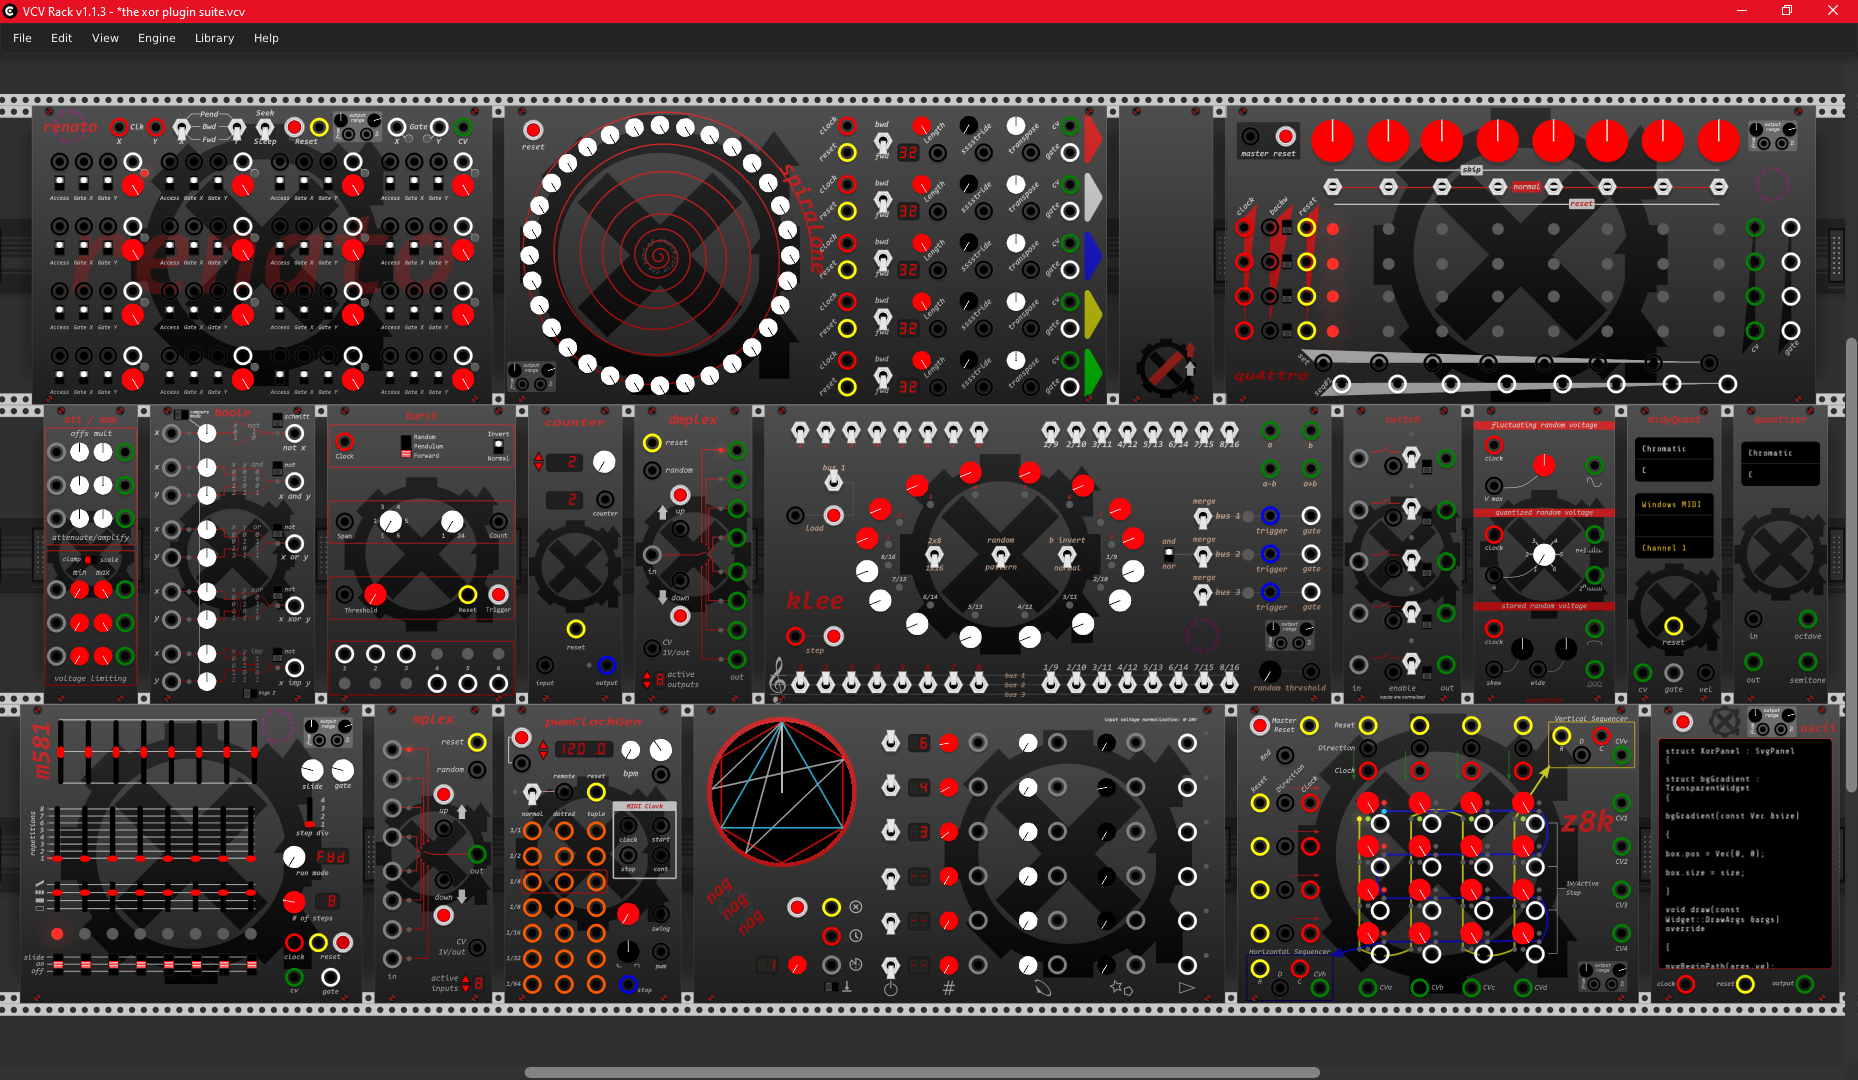
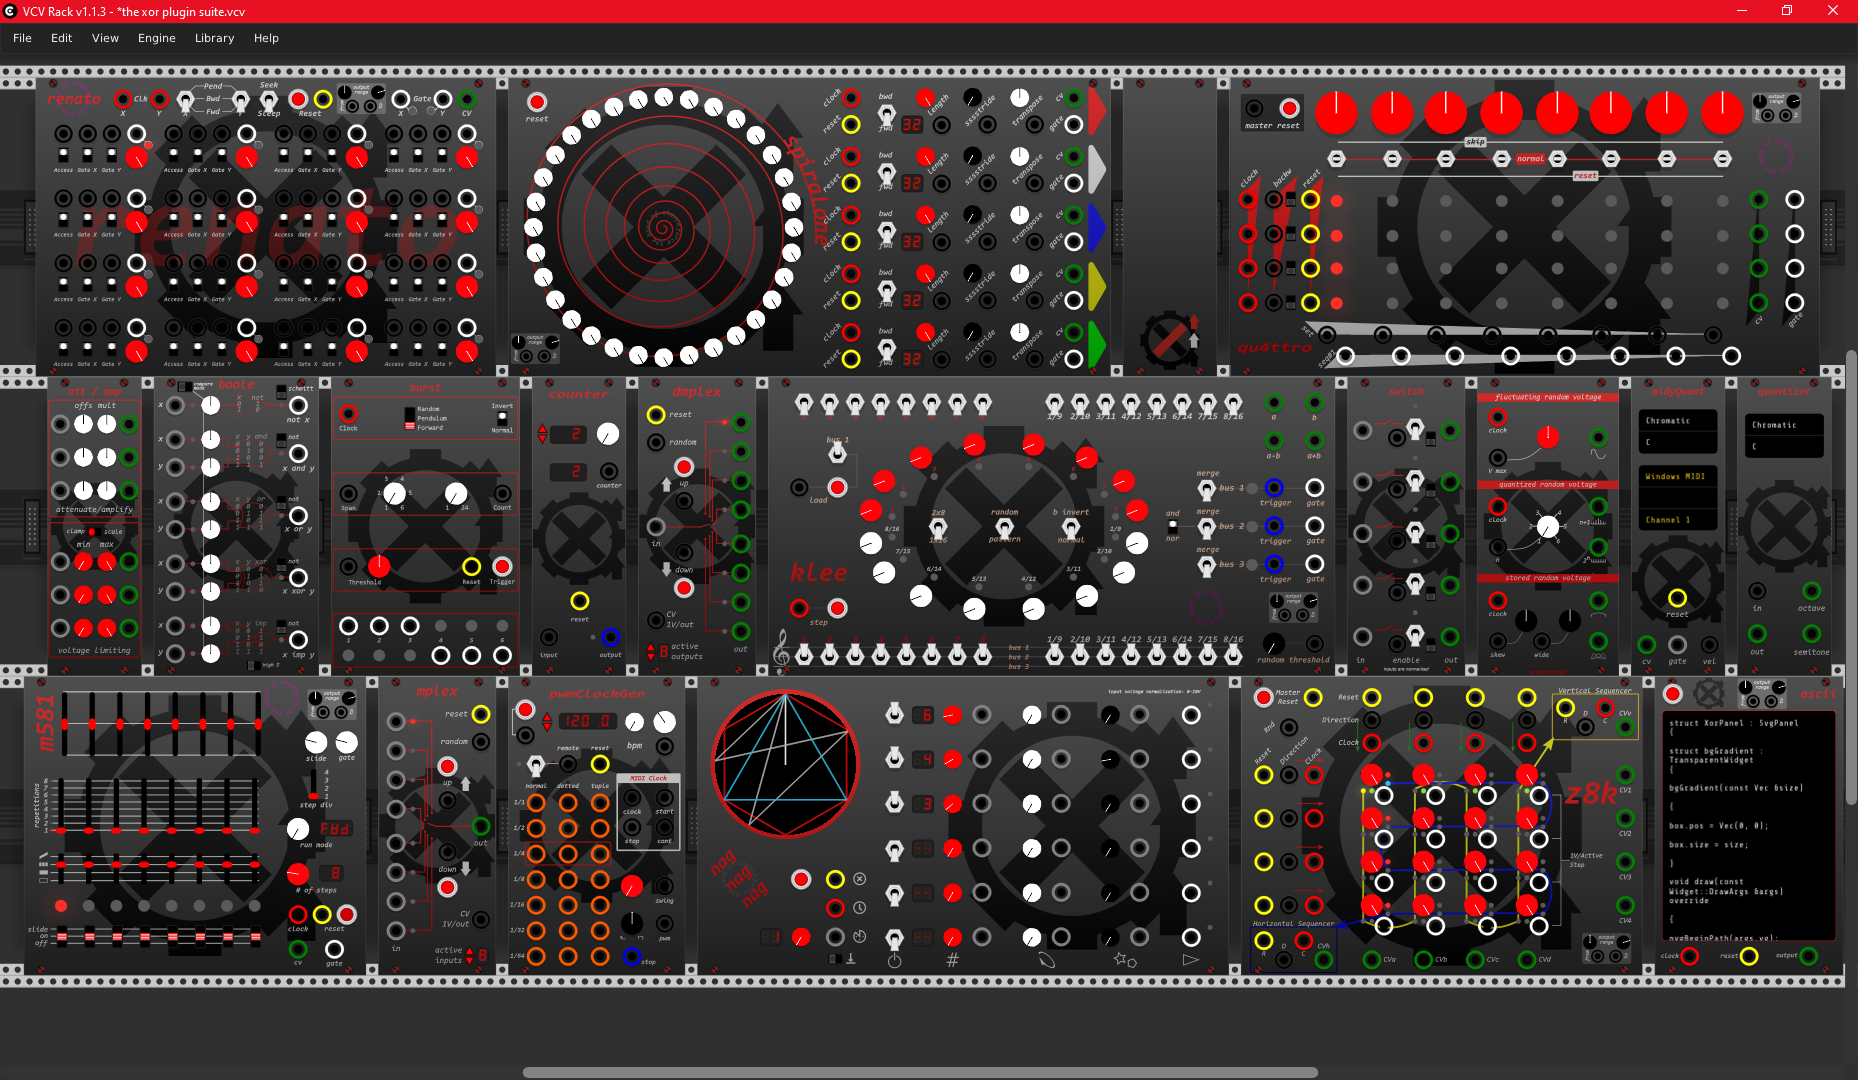
chairs missing

diff --git a/src/ascii.cpp b/src/ascii.cpp
@@ -3,12 +3,8 @@
 void ascii::manifesto()
 {
 	/*
-	disclaimer:
-	non vi venga in mente di rompere le palle con la politica. qui c'e' solo arte, arte allo stato puro,
-	ed una sconfinata ammirazione per filippo tommaso & soci.
-	persone che hanno vissuto in maniera artistica, seppur con scelte discutibili, 10E32
-	di volte migliori (anche umanamente) di moderne rockstar pedofile. arte. anzi, Arte.
-	tutto il resto e' noia, pippe mentali e mancata connessione neuronale. 
+	arte. l'ultimo vero movimento artistico totale: musica, letteratura, pittura, architettura....
+	tutto il resto e' noooooooiaaaaaaa
 	*/
 
 	static std::vector<std::string> manifesto_futurista =
@@ -29,7 +25,7 @@ void ascii::manifesto()
 	};
 
 	std::string s;
-	for (std::vector<std::string>::iterator it = manifesto_futurista.begin(); it != manifesto_futurista.end(); ++it)
+	for(std::vector<std::string>::iterator it = manifesto_futurista.begin(); it != manifesto_futurista.end(); ++it)
 	{
 		s += *it;
 		s += "\n";
@@ -39,9 +35,9 @@ void ascii::manifesto()
 
 void ascii::process(const ProcessArgs &args)
 {
-	if (textField != NULL)
+	if(textField != NULL)
 	{
-		if (resetTrigger.process(inputs[RESET].value) || masterReset.process(params[M_RESET].value))
+		if(resetTrigger.process(inputs[RESET].value) || masterReset.process(params[M_RESET].value))
 		{
 			textField->cursor = textField->selection = 0;
 			outputs[OUT].value = LVL_OFF;
@@ -53,13 +49,13 @@ void ascii::process(const ProcessArgs &args)
 		} else
 		{
 			int clk = clockTrig.process(inputs[CLK].value); // 1=rise, -1=fall
-			if (clk == 1)
+			if(clk == 1)
 			{
 				std::string safecopy = textField->text;
 				int len = safecopy.length();
-				if (len > 0)
+				if(len > 0)
 				{
-					if (textField->cursor >= len)
+					if(textField->cursor >= len)
 						textField->cursor = 0;
 					char c = safecopy.at(textField->cursor++);
 					textField->selection = textField->cursor;
@@ -72,8 +68,8 @@ void ascii::process(const ProcessArgs &args)
 	}
 }
 
-float ascii::getValue(char c) 
-{ 
+float ascii::getValue(char c)
+{
 	return orng.Value(rescale(c, 32.0, 127.0, 0.0, 1.0));
 }
 
@@ -87,15 +83,15 @@ asciiWidget::asciiWidget(ascii *module)
 
 	textField->multiline = true;
 	addChild(textField);
-	if (module != NULL)
+	if(module != NULL)
 		module->setField(textField);
 
-	addParam(createParam<HiddenButton>(Vec(mm2px(30.097), yncscape(119.363, 5.08)), module, ascii::FTM));
+	addParam(createParam<HiddenButton>(Vec(mm2px(26.642), yncscape(114.398, 5.08)), module, ascii::FTM));
 
 	addInput(createInput<PJ301RPort>(Vec(mm2px(10.932), yncscape(4.233, 8.255)), module, ascii::CLK));
-	addInput(createInput<PJ301YPort>(Vec(mm2px(36.512),  yncscape(4.233, 8.255)), module, ascii::RESET));
+	addInput(createInput<PJ301YPort>(Vec(mm2px(36.512), yncscape(4.233, 8.255)), module, ascii::RESET));
 	addOutput(createOutput<PJ301GPort>(Vec(mm2px(62.092), yncscape(4.233, 8.255)), module, ascii::OUT));
-	addChild(createParam<BefacoPushBig>(Vec(mm2px(9.4), yncscape(116.611, 8.999)), module, ascii::M_RESET));
+	addChild(createParam<BefacoPushBig>(Vec(mm2px(3.400), yncscape(116.611, 8.999)), module, ascii::M_RESET));
 	if(module != NULL)
-		module->orng.Create(this, 41.555f, 114.351f, ascii::RANGE_IN, ascii::RANGE);
+		module->orng.Create(this, 35.734f, 114.351f, ascii::RANGE_IN, ascii::RANGE);
 }

diff --git a/repository/scheletone.hpp b/repository/scheletone.hpp
@@ -1,0 +1,39 @@
+#include "common.hpp"
+
+using namespace rack;
+extern Plugin *pluginInstance;
+
+struct scheletone;
+struct scheletoneWidget : ModuleWidget
+{
+	scheletoneWidget(scheletone *module);
+};
+
+struct scheletone : Module
+{
+	enum ParamIds
+	{
+		NUM_PARAMS
+	};
+	enum InputIds
+	{
+		NUM_INPUTS
+	};
+	enum OutputIds
+	{
+		NUM_OUTPUTS
+	};
+	enum LightIds
+	{
+		NUM_LIGHTS
+	};
+
+	scheletone() : Module()
+	{
+		config(NUM_PARAMS, NUM_INPUTS, NUM_OUTPUTS, NUM_LIGHTS);
+	}
+	void process(const ProcessArgs &args) override;
+
+private:
+
+};

diff --git a/repository/scheletone.cpp b/repository/scheletone.cpp
@@ -1,0 +1,17 @@
+#include "../include/scheletone.hpp"
+
+void scheletone::process(const ProcessArgs &args)
+{
+
+}
+
+
+scheletoneWidget::scheletoneWidget(scheletone *module)
+{
+	CREATE_PANEL(module, this, 8, "res/modules/scheletone.svg");
+
+
+	addParam(createParam<HiddenButton>(Vec(mm2px(17.78), yncscape(12.806, 5.08)), module, scheletone::MOTTBTN));
+	addInput(createInput<PJ301HPort>(Vec(mm2px(0), yncscape(0, 8.255)), module, scheletone::MOTTETTO));
+}
+
